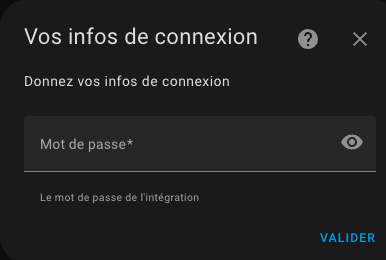
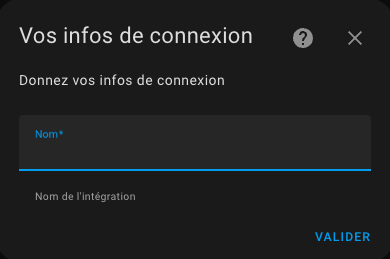
Tuto4 - 2 - WIP

diff --git a/tuto4.md b/tuto4.md
@@ -22,6 +22,11 @@ Avoir déroulé avec succès les trois premiers articles [tuto1](/tuto1.md), [tu
     - [Les Selectors Home Assistant](#les-selectors-home-assistant)
 - [Ajouter une deuxième étape](#ajouter-une-deuxième-étape)
 - [Créer une entité à partir d'une configuration](#créer-une-entité-à-partir-dune-configuration)
+  - [Mémoriser les éléments saisis](#mémoriser-les-éléments-saisis)
+  - [Créer une entrée de configuration (ConfigEntry)](#créer-une-entrée-de-configuration-configentry)
+  - [Créer une entité à partir d'une entrée de configuration](#créer-une-entité-à-partir-dune-entrée-de-configuration)
+  - [Relier les entités à un appareil (device)](#relier-les-entités-à-un-appareil-device)
+- [Modifier une configuration](#modifier-une-configuration)
 
 
 # Les points abordés
@@ -127,7 +132,7 @@ On va donc ajouter une méthode nommée `async_step_user` puisque notre intégra
         1. une première fois sans user_input -> on affiche le formulaire de configuration
         2. une deuxième fois avec les données saisies par l'utilisateur dans user_input -> on sauvegarde les données saisies
         """
-        user_form = vol.Schema({vol.Required("password"): str})
+        user_form = vol.Schema({vol.Required("name"): str})
 
         if user_input is None:
             _LOGGER.debug(
@@ -146,20 +151,20 @@ Comme indiqué dans le commentaire, cette méthode va être appelée 2 fois :
 1. une première fois sans user_input. Home Assistant s'attend à ce qu'on lui donne alors, le formulaire a afficher à l'utilisateur,
 2. une deuxième fois, cette fois avec des données dans user_input. user_input contient alors un dictionnaire avec les valeurs du formulaire saisies par l'utilisateur. On va voir ce qu'on fait de ses valeurs ensuite. Pour l'instant, on va juste les logger.
 
-Note : le code qui initialise le formulaire `user_form = vol.Schema({vol.Required("password"): str})`sera expliqué ci-dessous TODO .
+Note : le code qui initialise le formulaire `user_form = vol.Schema({vol.Required("name"): str})`sera expliqué ci-dessous TODO .
 
 Après relance de Home Assistant, si on tente de créer une intégration de type TutoHACS, on obtient cette fois cette page de configuration :
 
 ![ConfigFlow vide](/images/config-flow-1.png?raw=true)
 
-On est bien rentré dans le config flow et Home Assistant nous affiche le formulaire qui contient un champ "password".
+On est bien rentré dans le config flow et Home Assistant nous affiche le formulaire qui contient un champ "name".
 
-Saisis un mot de passe dans le champ et appuis sur "Valider". Tu dois voir les 2 logs suivants :
+Saisis un nom dans le champ et appuis sur "Valider". Tu dois voir les 2 logs suivants :
 
 ```log
 2023-04-22 10:31:15.284 DEBUG (MainThread) [custom_components.tuto_hacs.config_flow] config_flow step user (1). 1er appel : pas de user_input -> on affiche le form user_form
 ...
-2023-04-22 10:31:19.752 DEBUG (MainThread) [custom_components.tuto_hacs.config_flow] config_flow step user (2). On a reçu les valeurs: {'password': 'xxxxxx'}
+2023-04-22 10:31:19.752 DEBUG (MainThread) [custom_components.tuto_hacs.config_flow] config_flow step user (2). On a reçu les valeurs: {'name': 'xxxxxx'}
 ```
 Ca fonctionne bien, notre methode `async_step_user` a bien été appelée 2 fois, une fois sans valeur et une fois avec les valeurs saisies dans le formulaire.
 
@@ -180,10 +185,10 @@ On va ajouter des libellés à ce formulaire en ajoutant le fichier `strings.jso
                 "title": "Vos infos de connexion",
                 "description": "Donnez vos infos de connexion",
                 "data": {
-                    "password": "Mot de passe"
+                    "name": "Nom"
                 },
                 "data_description": {
-                    "password": "Le mot de passe de l'intégration"
+                    "name": "Nom de l'intégration"
                 }
             }
         }
@@ -197,8 +202,8 @@ Tu donnes dans ce fichier les différents libellés qui accompagnent les formula
 - `flow_title` est le titre du flot de configuration,
 - le bloc `step` contient les libellés des étapes de la configuration,
 - le bloc `user` contient les libellés de l'étape `user`. Il y a la possibilité de mettre un titre et une description
-- le bloc `data` contient les libellés des datas du formulaire `user`. 2 libellés sont possibles : le libellé de nos champs (ici `password`)
-- le bloc `data_description` contient une description optionnelle pour chaque champ du formulaire. Dans notre exemple, il n'y a pas `password`
+- le bloc `data` contient les libellés des datas du formulaire `user`. 2 libellés sont possibles : le libellé de nos champs (ici `name`)
+- le bloc `data_description` contient une description optionnelle pour chaque champ du formulaire. Dans notre exemple, il n'y a pas `name`
 
 Ensuite on va créer une copie de ce fichier dans un sous-répertoire de notre intégration nommé `translations`. Ce répertoire doit contenir, les traductions du fichier `strings.json` dans toutes les langues supportées par notre intégration. La langue par défaut affichées à l'utilisateur sera sa langue configurée dans Home Assistant.
 
@@ -225,7 +230,7 @@ Vides le cache, recharges la page, crées l'intégration TutoHACS et cette fois 
 Dans le code de la fonction `async_step_user` ci-dessus, on a une ligne qui n'a pas été expliquée. Elle initialise le formulaire affiché dans l'étape `user` : 
 
 ```python
-user_form = vol.Schema({vol.Required("password"): str})
+user_form = vol.Schema({vol.Required("name"): str})
 ```
 Ce petit bout de code qui n'a l'air de rien mériterait à lui tout seul un tuto complet tellement il est puissant mais complexe et mal documenté. Je vais vous donner quelques clés pour comprendre comment il marche.
 
@@ -458,8 +463,11 @@ On a définit un parcours de configuration (le fameux `configFlow`) et maintenan
 
 Pour cela, il faut :
 1. mémoriser les éléments saisis à chaque étape,
-2. créer l'entité avec l'ensemble des éléments saisis.
+2. créer une entrée de configuration,
+3. créer les entités avec l'ensemble des éléments saisis,
+4. relier les entités à un appareil (device)
 
+## Mémoriser les éléments saisis
 Pour mémoriser les éléments saisis, il faut ajouter un réceptacle des saisies de l'utilisateur :
 
 ```python
@@ -498,29 +506,203 @@ et la mémorisation dans le réceptacle des user_infos à chacune de nos étapes
 Si on relance en l'état et qu'on ajoute une intégration Tuto HACS, on obtient le log suivant après avoir validé la dernière étape :
 ```log
 2023-04-22 16:43:03.973 DEBUG (MainThread) [custom_components.tuto_hacs.config_flow] config_flow step2 (2). On a reçu les valeurs: {'sensor_id': 'sensor.sun_next_setting'}
-2023-04-22 16:43:03.973 INFO (MainThread) [custom_components.tuto_hacs.config_flow] config_flow step2 (2). L'ensemble de la configuration est: {'password': 'xxxxxxx', 'sensor_id': 'sensor.sun_next_setting'}
+2023-04-22 16:43:03.973 INFO (MainThread) [custom_components.tuto_hacs.config_flow] config_flow step2 (2). L'ensemble de la configuration est: {'name': 'le nom', 'sensor_id': 'sensor.sun_next_setting'}
 ```
 
 Notre objet `_user_inputs` contient bien les 2 champs des 2 formulaires de configuration.
 
+## Créer une entrée de configuration (ConfigEntry)
 
+L'entrée de configuration ou ConfigEntry, est ce qui permet de rendre les configurations des intégrations persistantes dans le temps. Après une relance de Home Assistant, toutes les entités sont créées à partir des configEntry sauvegardées sur le disque. C'est ce qui remplace le `configuration.yaml`.
+Tu peux retrouver toutes les configEntry sur ton disque dur, dans le fichier `config/.storage/core.config_entries`.
 
+Donc à la fin du configFlow, après avoir collecté tous les éléments de configuration, on va demander à Home Assistant de créer ou de mettre à jour un configEntry. Cela se fait très simplement avec le code suivant :
 
+```python
+self.async_create_entry(title="titre de l'entrée", data=self._user_inputs)
+```
 
+On va ajouter une constante CONF_NAME qui définit le nom de l'élément de config `name` au lieu de l'avoir en dur et on va utiliser l'élément de configuration `name` comme `title` pour ce configEntry. La deuxième méthode devient donc :
 
+```python
+    async def async_step_2(self, user_input: dict | None = None) -> FlowResult:
+        """Gestion de l'étape 2. Mêmes principes que l'étape user"""
+        step2_form = vol.Schema(
+            {
+                # On attend un entity id du domaine sensor
+                vol.Optional("sensor_id"): selector.EntitySelector(
+                    selector.EntitySelectorConfig(domain=SENSOR_DOMAIN),
+                )
+            }
+        )
 
+        if user_input is None:
+            _LOGGER.debug(
+                "config_flow step2 (1). 1er appel : pas de user_input -> "
+                "on affiche le form step2_form"
+            )
+            return self.async_show_form(step_id="2", data_schema=step2_form)
 
+        # 2ème appel : il y a des user_input -> on stocke le résultat
+        _LOGGER.debug("config_flow step2 (2). On a reçu les valeurs: %s", user_input)
 
+        # On mémorise les user_input
+        self._user_inputs.update(user_input)
+        _LOGGER.info(
+            "config_flow step2 (2). L'ensemble de la configuration est: %s",
+            self._user_inputs,
+        )
 
+        return self.async_create_entry(
+            title=self._user_inputs[CONF_NAME], data=self._user_inputs
+        )
+```
 
+On relance Home Assistant, on créé une intégration de type Tuto HACS et on doit avoir le résultat suivant :
+![Config flow réussi](/images/config-flow-5.png?raw=true)
 
+On constate aussi qu'une intégration a été créée :
+![Config flow échec](/images/config-flow-6.png?raw=true)
+mais elle est en échec.
 
----
-J'ai mis longtemps à comprendre qu'il faut savoir qu'un appareil n'a pas de code, ni de déclaration. Il est simplement créé lorsqu'on déclare une entité et qu'on l'a relie à un appareil.
+Allons voir les logs et on constate ceci :
 
+```log
+2023-04-22 20:59:40.958 DEBUG (MainThread) [custom_components.tuto_hacs.config_flow] config_flow step2 (2). On a reçu les valeurs: {'sensor_id': 'sensor.sun_next_setting'}
+2023-04-22 20:59:40.958 INFO (MainThread) [custom_components.tuto_hacs.config_flow] config_flow step2 (2). L'ensemble de la configuration est: {'name': 'La première', 'sensor_id': 'sensor.sun_next_setting'}
+2023-04-22 20:59:40.961 ERROR (MainThread) [homeassistant.config_entries] Error setting up entry La première for tuto_hacs
+Traceback (most recent call last):
+  File "/home/vscode/.local/lib/python3.11/site-packages/homeassistant/config_entries.py", line 383, in async_setup
+    result = await component.async_setup_entry(hass, self)
+                   ^^^^^^^^^^^^^^^^^^^^^^^^^^^
+AttributeError: module 'custom_components.tuto_hacs' has no attribute 'async_setup_entry'
 
+```
 
-Pour terminer ce tuto, on va relier cette entité à un appareil (device). Pour cela, c'est très simple, il suffit de déclarer dans la classe de l'entité à quel device elle appartient.
+La configuration s'est bien passée mais il manque à notre module `custom_components.tuto_hacs` une fonction `async_setup_entry`. Cette fonction va servir à transformer le configEntry en entité. On va voir comment faire ça dans le chapitre suivant.
+
+Si on ouvre le fichier `config/.storage/core.config_entries` et qu'on recherche notre configuration, on doit la trouver et elle doit ressembler à ça :
+```yaml
+{
+  "version": 1,
+  "minor_version": 1,
+  "key": "core.config_entries",
+  "data": {
+    "entries": [
+        ...
+      {
+        "entry_id": "e88362b08cbf7774cb2ce61bbc952de3",
+        "version": 1,
+        "domain": "tuto_hacs",
+        "title": "La première",
+        "data": {
+          "name": "La première",
+          "sensor_id": "sensor.sun_next_setting"
+        },
+        "options": {},
+        "pref_disable_new_entities": false,
+        "pref_disable_polling": false,
+        "source": "user",
+        "unique_id": null,
+        "disabled_by": null
+      }
+    ]
+  }
+}
+```
+
+Ce fichier contient bien notre configEntry avec nos paramètres, notamment le `title` qui prend la valeur de `data.name`.
+
+## Créer une entité à partir d'une entrée de configuration
+Au chargement ou lors d'une création d'une nouvelle configEntry, il faut indiquer à Home Assistant, comment instancier les entités et les appareils à partir de cette configEntry. Ca se fait simplement en créant une fonction `async_setup_entry` dans le fichier `__init__.py` :
+
+```python
+async def async_setup_entry(hass: HomeAssistant, entry: ConfigEntry) -> bool:
+    """Creation des entités à partir d'une configEntry"""
+
+    _LOGGER.debug(
+        "Appel de async_setup_entry entry: entry_id='%s', data='%s'",
+        entry.entry_id,
+        entry.data,
+    )
+
+    hass.data.setdefault(DOMAIN, {})
+
+    await hass.config_entries.async_forward_entry_setups(entry, PLATFORMS)
+
+    return True
+```
+
+Ce code positionne le domaine par défaut comme étant notre domain, puis appel `hass.config_entries.async_forward_entry_setups(entry, PLATFORMS)` qui comme son nom l'indique propage le configEntry à toutes les plateformes déclarées dans notre intégration.
+
+Rappelles toi que PLATFORMS contient la liste des plateformes des entités créées par notre intégration (si une intégration doit créer un `sensor` et un `switch`, `PLAFORMS` contiendra `['sensor', 'switch']`). Pour le tuto, `PLATFORM`est initialisé comme suit dans le `const.py` : `PLATFORMS: list[Platform] = [Platform.SENSOR]`.
+
+Donc, dans notre cas, l'effet de cette instruction est d'appeler la fonction `async_setup_entry` de notre `sensor.py`. Comme elle n'existe pas, il faut la créer aussi de la façon suivante :
+
+```python
+async def async_setup_entry(
+    hass: HomeAssistant, entry: ConfigEntry, async_add_entities: AddEntitiesCallback
+):
+    """Configuration des entités sensor à partir de la configuration
+    ConfigEntry passée en argument"""
+
+    _LOGGER.debug("Calling async_setup_entry entry=%s", entry)
+
+    entity1 = TutoHacsElapsedSecondEntity(hass, entry.data)
+    entity2 = TutoHacsListenEntity(hass, entry.data, entity1)
+    async_add_entities([entity1, entity2], True)
+
+    # Add services
+    platform = async_get_current_platform()
+    platform.async_register_entity_service(
+        SERVICE_RAZ_COMPTEUR,
+        {vol.Optional("valeur_depart"): cv.positive_int},
+        "service_raz_compteur",
+    )
+```
+On constate que cette méthode est très proche de la méthode `async_setup_platform` qui initialise les entités à partir de la configuration de notre plateforme trouvée dans le fichier `configuration.yaml`. C'est bien normal puisque les deux font la même chose mais pas à partir de la même source de configuration.
+
+Comme, on n'a pas mis d'élément de configuration donnant le `deviceId`, il va falloir qu'on modifie la façon dont ce deviceId est initalisé. Cf. ci-dessous pour le raccordement des entités à un device.
+
+```python
+
+class TutoHacsElapsedSecondEntity(SensorEntity):
+    ...
+    def __init__(
+        ...
+        self._device_id = self._attr_name = entry_infos[CONF_NAME]
+    ...
+
+class TutoHacsListenEntity(SensorEntity):
+    ...
+    def __init__(
+        ...
+        # On lui donne un nom et un unique_id différent
+        self._device_id = entry_infos.get(CONF_NAME)
+```
+
+On peut relancer Home Assistant (après corriger les éventuelles erreurs...) et on obtient 2 entités supplémentaires ([ici](http://localhost:9123/config/entities)) :
+![Config flow échec](/images/entite-config-flow.png?raw=true)
+
+On constate que les entités précédemment créées par le fichier `configuration.yaml` sont aussi présentes. Il est possible en effet de configurer les entités par les 2 moyens en même temps. Ca ne sert à priori à rien donc on va faire un peu de ménage et supprimer la configuration du `configuration.yaml` :
+
+On supprime tout le bloc :
+```yaml
+sensor:
+  - platform: tuto_hacs
+  ...
+```
+
+On peut aussi supprimer les fonctions `async_setup_platform` de `__init__.py` et `sensor.py` puisqu'elles ne servent que pour les configurations du `configuration.yaml`.
+
+Après arrêt/relance de Home Assistant, on a plus que nos nouvelles entités qui sont actives.
+
+## Relier les entités à un appareil (device)
+Un appareil peut être vu comme un regroupement d'entités chacune exposant une caractéristique d'un même appareil.
+
+J'ai mis longtemps à comprendre qu'il faut savoir qu'un appareil n'a pas de code, ni de déclaration. Il est simplement créé automatiquement lorsqu'on déclare une entité et qu'on l'a relie à un appareil.
+
+Pour terminer cette partie, on va relier nos 2 entités à un même appareil (device). Pour cela, c'est très simple, il suffit de déclarer dans la classe de chacune des entités à quel device elle appartient.
 
 Ca se fait en ajoutant le code suivant dans notre classe d'entité :
 
@@ -535,16 +717,41 @@ class TutoHacsElapsedSecondEntity(SensorEntity):
         """Return the device info."""
         return DeviceInfo(
             entry_type=DeviceEntryType.SERVICE,
-            identifiers={(DOMAIN, self._config_id)},
-            name=self._device_name,
+            identifiers={(DOMAIN, self._device_id)},
+            name=self._device_id,
+            manufacturer=DEVICE_MANUFACTURER,
+            model=DOMAIN,
+        )
+
+class TutoHacsListenEntity(SensorEntity):
+    ...
+    @property
+    def device_info(self) -> DeviceInfo:
+        """Return the device info."""
+        return DeviceInfo(
+            entry_type=DeviceEntryType.SERVICE,
+            identifiers={(DOMAIN, self._device_id)},
+            name=self._device_id,
             manufacturer=DEVICE_MANUFACTURER,
             model=DOMAIN,
         )
 ```
+Si on avait d'autres entités d'autres domaines, on ferait la même chose pour les relier aussi.
+
+Le manufacturer est une constante définie dans le `const.py` lors du tuto3.
+
+On redémarre le tout et on constate dans la liste des appareils ([ici](http://localhost:9123/config/devices/dashboard)), un nouvel appareil nommé "La première" (le `name` donné à l'intégration), qui contient 2 entités :
+![Appareil1](/images/appareil-1.png?raw=true)
+
+Cliques sur l'appareil pour voir ses entités :
+![Appareil2](/images/appareil-2.png?raw=true)
+
+> ![Tip](/images/tips.png?raw=true)
+> Il est possible de créer autant d'intégration que l'on veut. Il suffit pour cela de cliquer sur "Ajouter une intégration" et de donner les éléments de configuration.
 
 
+# Modifier une configuration
 
-On redémarre le tout et on constate dans la liste des appareils, un nouvel appareil 
+Il ne nous reste plus qu'à pouvoir modifier la configuration d'une intégration et on aura fait le tour du configFlow. En imaginant qu'on veuille modifier une option sur une de nos intégrations, il serait dommage d'être obligé de la détruire et de la récréer.
 
-
-
+Pour faire ça, on va ajouter un menu "Configurer" dans notre intégration qui permettra de dérouler un parcours de configuration.
